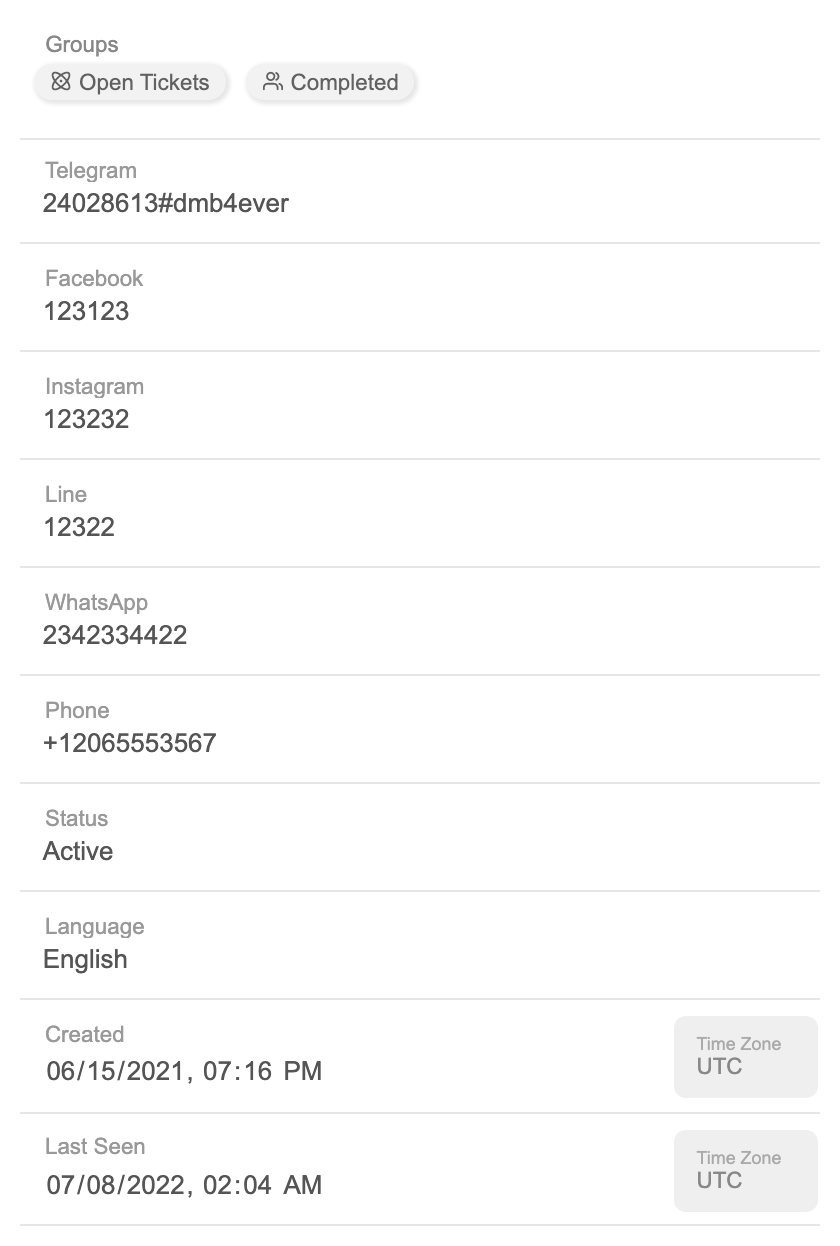
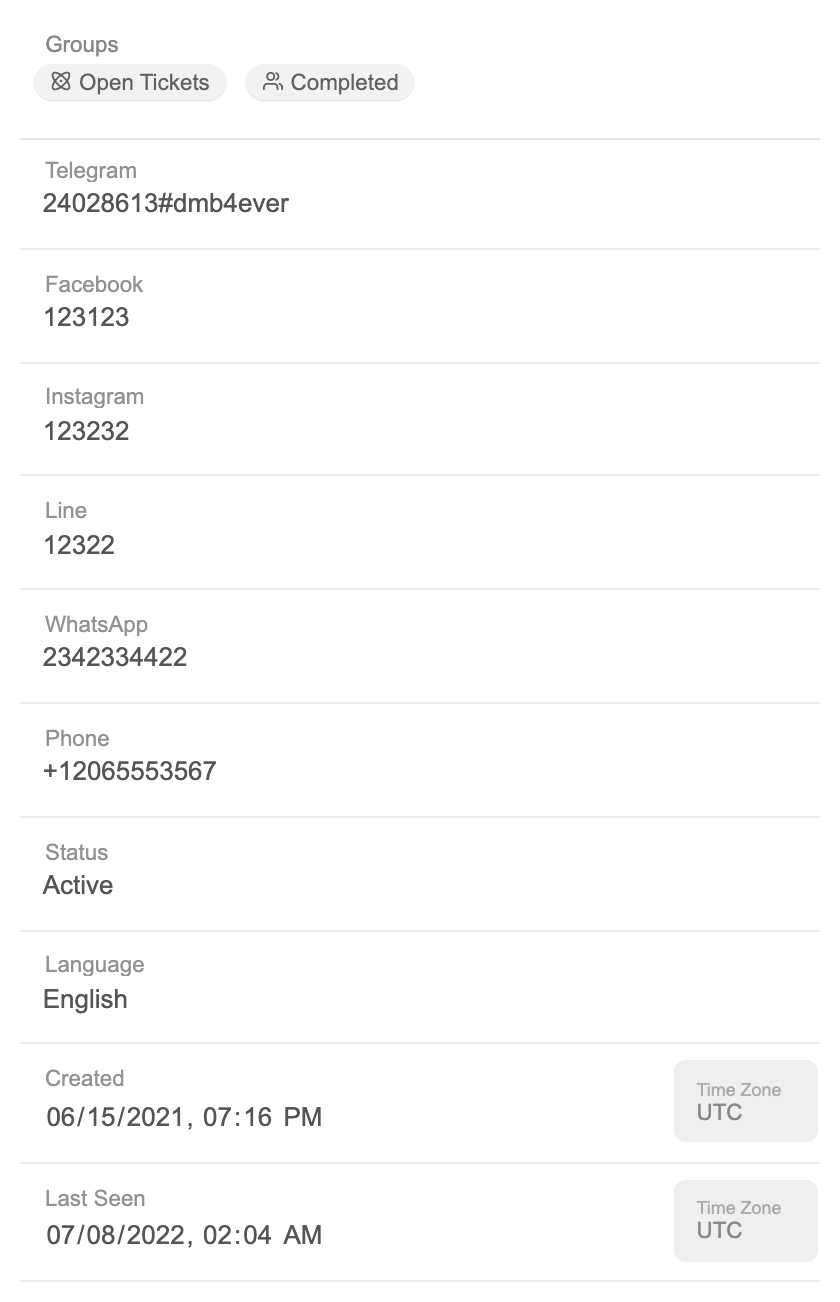
Support for agents editing contact fields

diff --git a/src/contacts/ContactFields.ts b/src/contacts/ContactFields.ts
@@ -10,12 +10,6 @@ const MIN_FOR_FILTER = 10;
 export class ContactFields extends ContactStoreElement {
   static get styles() {
     return css`
-      :host {
-      }
-
-      .fields {
-      }
-
       .field {
         display: flex;
         margin: 0.3em 0.3em;
@@ -25,8 +19,9 @@ export class ContactFields extends ContactStoreElement {
         overflow: hidden;
       }
 
-      .show-all .unset {
-        display: block;
+      .show-all .unset,
+      .featured {
+        display: block !important;
       }
 
       .unset {
@@ -61,9 +56,6 @@ export class ContactFields extends ContactStoreElement {
         font-size: 0.9em;
       }
 
-      temba-contact-field {
-      }
-
       .toggle {
         display: flex;
         background: #fff;
@@ -78,9 +70,6 @@ export class ContactFields extends ContactStoreElement {
   }
 
   @property({ type: Boolean })
-  featured: boolean;
-
-  @property({ type: Boolean })
   system: boolean;
 
   @property({ type: Boolean })
@@ -92,12 +81,19 @@ export class ContactFields extends ContactStoreElement {
   @property({ type: String })
   timezone: string;
 
+  @property({ type: String })
+  role: string;
+
   @property({ type: Boolean })
   disabled = false;
 
   connectedCallback(): void {
     super.connectedCallback();
     this.handleFieldChanged = this.handleFieldChanged.bind(this);
+  }
+
+  private isAgent(): boolean {
+    return this.role === 'T';
   }
 
   protected updated(
@@ -129,25 +125,29 @@ export class ContactFields extends ContactStoreElement {
 
   public render(): TemplateResult {
     if (this.data) {
-      const fieldsToShow = Object.entries(this.data.fields)
-        .filter((entry: [string, string]) => {
-          return (
-            (this.featured && this.store.getContactField(entry[0]).featured) ||
-            (!this.featured && !this.store.getContactField(entry[0]).featured)
-          );
-        })
-        .sort((a: [string, string], b: [string, string]) => {
+      const fieldsToShow = Object.entries(this.data.fields).sort(
+        (a: [string, string], b: [string, string]) => {
           const [ak] = a;
           const [bk] = b;
-          const priority =
-            this.store.getContactField(bk).priority -
-            this.store.getContactField(ak).priority;
+          const fieldA = this.store.getContactField(ak);
+          const fieldB = this.store.getContactField(bk);
+
+          if (fieldA.featured && !fieldB.featured) {
+            return -1;
+          }
+
+          if (fieldB.featured && !fieldA.featured) {
+            return 1;
+          }
+
+          const priority = fieldB.priority - fieldA.priority;
           if (priority !== 0) {
             return priority;
           }
 
           return ak.localeCompare(bk);
-        });
+        }
+      );
 
       if (fieldsToShow.length == 0) {
         return html`<slot name="empty"></slot>`;
@@ -157,21 +157,24 @@ export class ContactFields extends ContactStoreElement {
         const [k, v] = entry;
         const field = this.store.getContactField(k);
         return html`<temba-contact-field
-          class=${v ? 'set' : 'unset'}
+          class=${getClasses({ set: !!v, unset: !v, featured: field.featured })}
           key=${field.key}
           name=${field.label}
           value=${v}
           type=${field.value_type}
           @change=${this.handleFieldChanged}
           timezone=${this.timezone}
-          ?disabled=${this.disabled}
+          ?disabled=${(this.isAgent() && field.agent_access === 'view') ||
+          this.disabled
+            ? true
+            : false}
         ></temba-contact-field>`;
       });
 
       return html`
         <div class=${getClasses({ disabled: this.disabled })}>
-          ${!this.featured &&
-          Object.keys(this.data.fields).length >= MIN_FOR_FILTER
+          <div class="fields ${this.showAll ? 'show-all' : ''}">${fields}</div>
+          ${Object.keys(this.data.fields).length >= MIN_FOR_FILTER
             ? html`<div class="toggle">
                 <div style="flex-grow: 1"></div>
                 <div>
@@ -179,16 +182,10 @@ export class ContactFields extends ContactStoreElement {
                     ?checked=${this.showAll}
                     @change=${this.handleToggle}
                     label="Show All"
-                  />
+                  ></temba-checkbox>
                 </div>
               </div>`
             : null}
-
-          <div
-            class="fields ${this.showAll || this.featured ? 'show-all' : ''}"
-          >
-            ${fields}
-          </div>
         </div>
       `;
     }

diff --git a/src/contacts/ContactFieldEditor.ts b/src/contacts/ContactFieldEditor.ts
@@ -34,17 +34,41 @@ export class ContactFieldEditor extends RapidElement {
 
   static get styles() {
     return css`
+      :host {
+        --transition-speed: 0ms;
+      }
+
       .wrapper {
         --temba-textinput-padding: 1.4em 0.8em 0.4em 0.8em;
         --disabled-opacity: 1;
         position: relative;
+        --color-widget-bg: transparent;
+        --color-widget-bg-focused: #fff;
+        --widget-box-shadow: none;
+        padding-bottom: 0.6em;
+        border-bottom: 1px solid #ececec;
+      }
+
+      .wrapper.disabled {
+        --color-widget-border: transparent;
+      }
+
+      .wrapper.mutable:hover {
+        --color-widget-border: rgb(225, 225, 225);
+      }
+
+      .wrapper.mutable {
+        --color-widget-border: transparent;
+        --color-widget-bg: transparent;
+        --input-cursor: pointer;
+        --color-widget-text-focused: #666;
+        --color-widget-text: var(--color-link-primary) !important;
       }
 
       .prefix {
         border-top-left-radius: var(--curvature-widget);
         border-bottom-left-radius: var(--curvature-widget);
-        color: #888;
-        cursor: pointer;
+        cursor: pointer !important;
         white-space: nowrap;
         overflow: hidden;
         text-overflow: ellipsis;
@@ -52,6 +76,7 @@ export class ContactFieldEditor extends RapidElement {
         padding: 0em 0.5em;
         position: absolute;
         margin-top: 0.2em;
+        pointer-events: none;
       }
 
       .wrapper {
@@ -60,7 +85,7 @@ export class ContactFieldEditor extends RapidElement {
 
       .prefix .name {
         padding: 0em 0.4em;
-        color: #999;
+        color: rgba(100, 100, 100, 0.7);
         white-space: nowrap;
         overflow: hidden;
         text-overflow: ellipsis;
@@ -74,13 +99,12 @@ export class ContactFieldEditor extends RapidElement {
 
       .popper {
         padding: 0.5em 0.75em;
-        background: rgba(240, 240, 240, 1);
+        background: rgba(0, 0, 0, 0.03);
         border-top-right-radius: var(--curvature-widget);
         border-bottom-right-radius: var(--curvature-widget);
         --icon-color: #888;
         opacity: 0;
         cursor: default;
-        transform: scale(0.5);
         transition: all var(--transition-speed) ease-in-out;
         display: flex;
         align-items: stretch;
@@ -100,25 +124,13 @@ export class ContactFieldEditor extends RapidElement {
         --icon-color: rgba(0, 0, 0, 0.3);
       }
 
+      temba-textinput:focus .popper,
       temba-textinput:hover .popper {
         opacity: 1;
-        transform: scale(1);
-      }
-
-      temba-textinput:focus .popper {
-        opacity: 1;
-        transform: scale(1);
       }
 
       .disabled temba-textinput .postfix {
         display: none;
-      }
-
-      .disabled {
-        --widget-box-shadow: none;
-        --color-widget-border: transparent;
-        padding-bottom: 0.4em;
-        border-bottom: 1px solid #e6e6e6;
       }
 
       .unset temba-textinput:focus .popper,
@@ -208,6 +220,7 @@ export class ContactFieldEditor extends RapidElement {
           set: !!this.value,
           unset: !this.value,
           disabled: this.disabled,
+          mutable: !this.disabled,
         })}
       >
         ${this.type === 'datetime'

diff --git a/src/textinput/TextInput.ts b/src/textinput/TextInput.ts
@@ -12,7 +12,7 @@ export class TextInput extends FormElement {
     return css`
       .input-container {
         border-radius: var(--curvature-widget);
-        cursor: text;
+        cursor: var(--input-cursor);
         background: var(--color-widget-bg);
         border: 1px solid var(--color-widget-border);
         transition: all ease-in-out var(--transition-speed);
@@ -48,7 +48,6 @@ export class TextInput extends FormElement {
       }
 
       .input-container:hover {
-        background: var(--color-widget-bg-focused);
       }
 
       textarea {
@@ -61,11 +60,12 @@ export class TextInput extends FormElement {
         flex: 1;
         margin: 0;
         background: none;
+        background-color: transparent;
         color: var(--color-widget-text);
         font-family: var(--font-family);
         font-size: var(--temba-textinput-font-size);
         line-height: normal;
-        cursor: text;
+        cursor: var(--input-cursor);
         resize: none;
         font-weight: 300;
         width: 100%;
@@ -75,6 +75,7 @@ export class TextInput extends FormElement {
         outline: none;
         box-shadow: none;
         cursor: text;
+        color: var(--color-widget-text-focused, var(--color-widget-text));
       }
 
       .textinput::placeholder {

diff --git a/src/interfaces.ts b/src/interfaces.ts
@@ -99,6 +99,7 @@ export interface ContactField {
   value_type: string;
   featured: boolean;
   priority: number;
+  agent_access: string;
   usages: { campaign_events: number; flows: number; groups: number };
 }
 
